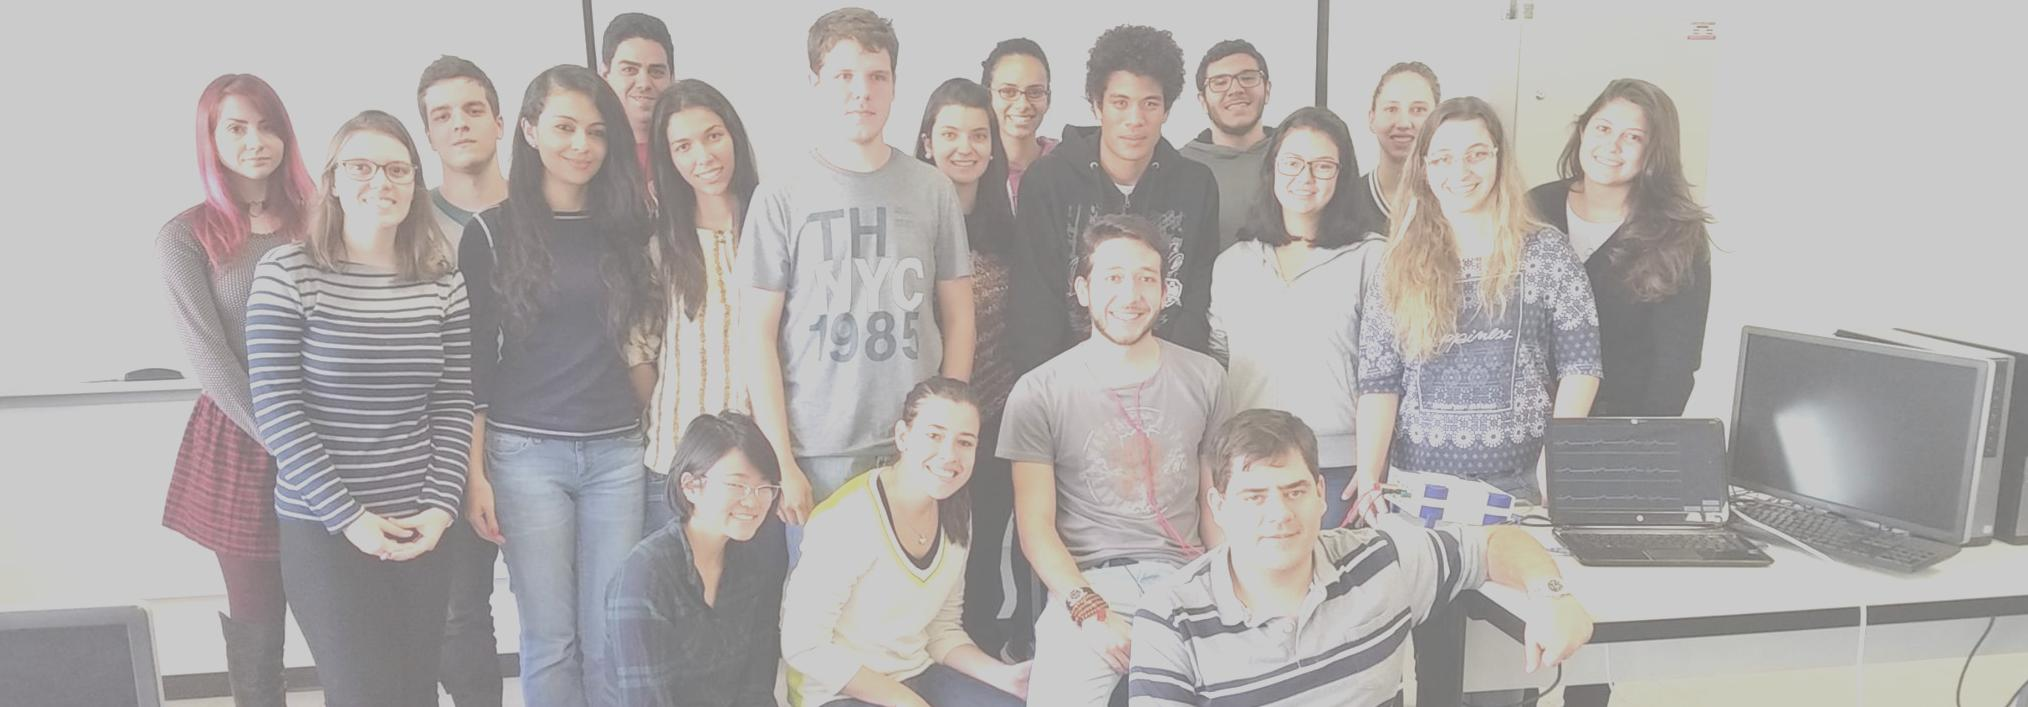
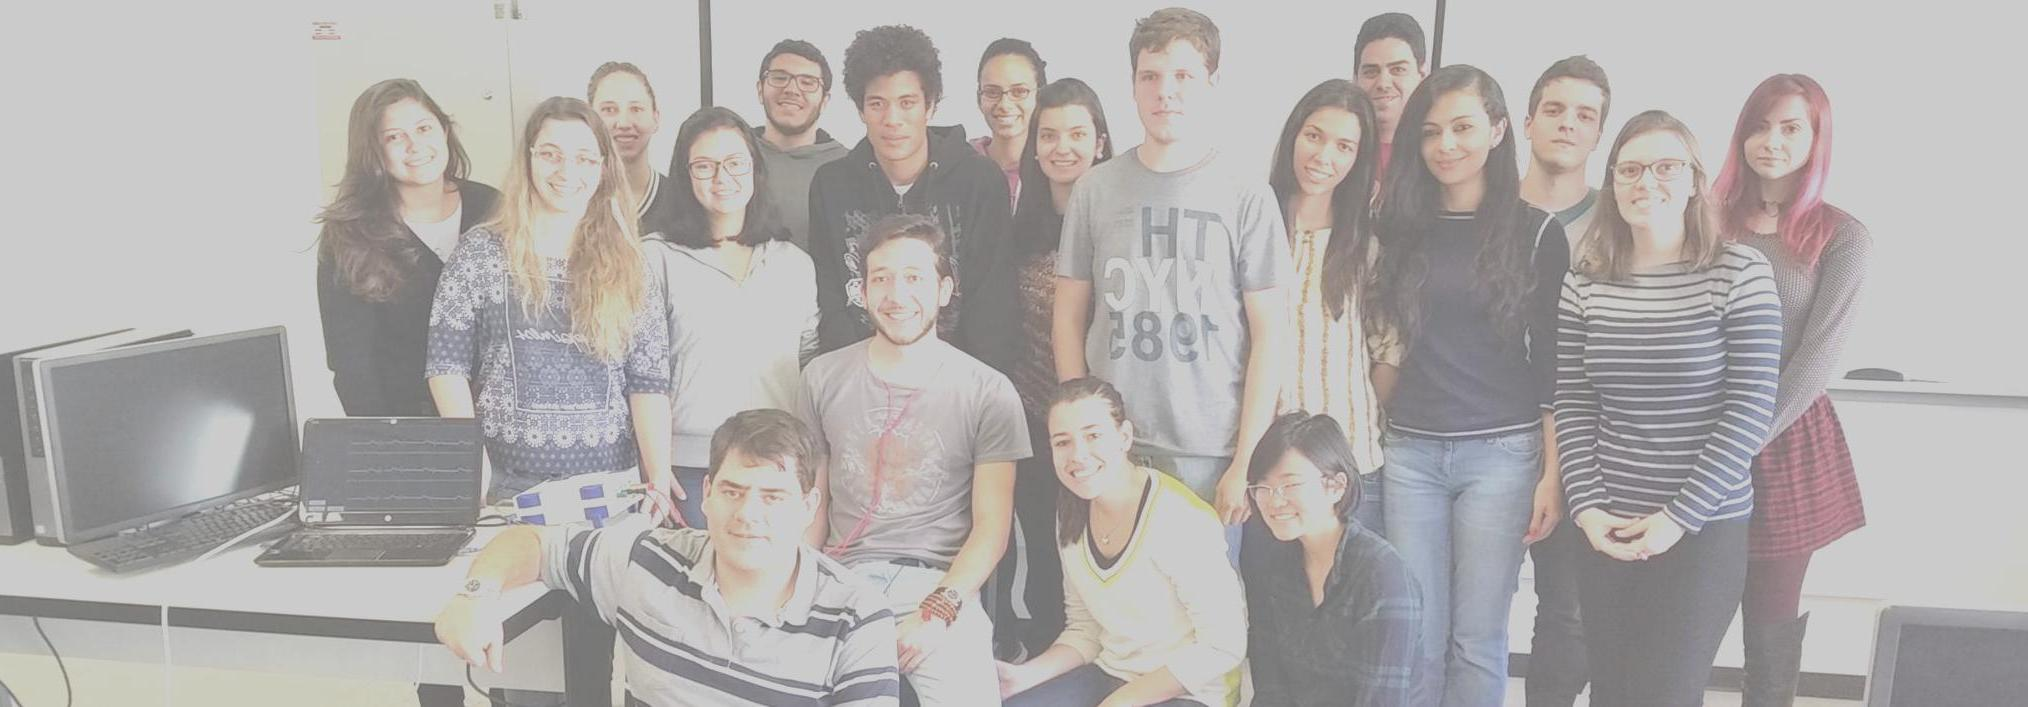
Invertendo imagem de fundo e arrumando texto inicial.

diff --git a/index.html b/index.html
@@ -58,9 +58,9 @@
 			<h2 class="text-size-40 margin-bottom-30">Sobre mim</h2>
 			<hr class="break-small background-primary margin-bottom-30">
 			<p class="margin-bottom-20">
-			Possuo graduação em Engenharia Mecatrônica pela Universidade de São Paulo (2002), especialização em Gestão de Projetos
+			Fiz a graduação em Engenharia Mecatrônica pela Universidade de São Paulo (2002), especialização em Gestão de Projetos
 			pela Fundação Carlos Alberto Vanzolini (2008), mestrado em Engenharia Mecatrônica pela Escola Politécnica da Universidade 
-			de São Paulo (2006), doutorado em Engenharia Mecânica pela Universidade de São Paulo(2013) e pós-doutorado pela Escola
+			de São Paulo (2006), doutorado em Engenharia Mecânica pela Universidade de São Paulo (2013) e pós-doutorado pela Escola
 			Politécnica da Universidade de São Paulo (2015). Atualmente sou Professor da Universidade Federal do ABC. 
 			</p>
 			<p><a class="button button-white-stroke text-size-12" href="http://lattes.cnpq.br/3769775322042195" target="_blank">Currículo Lattes</a></p>
